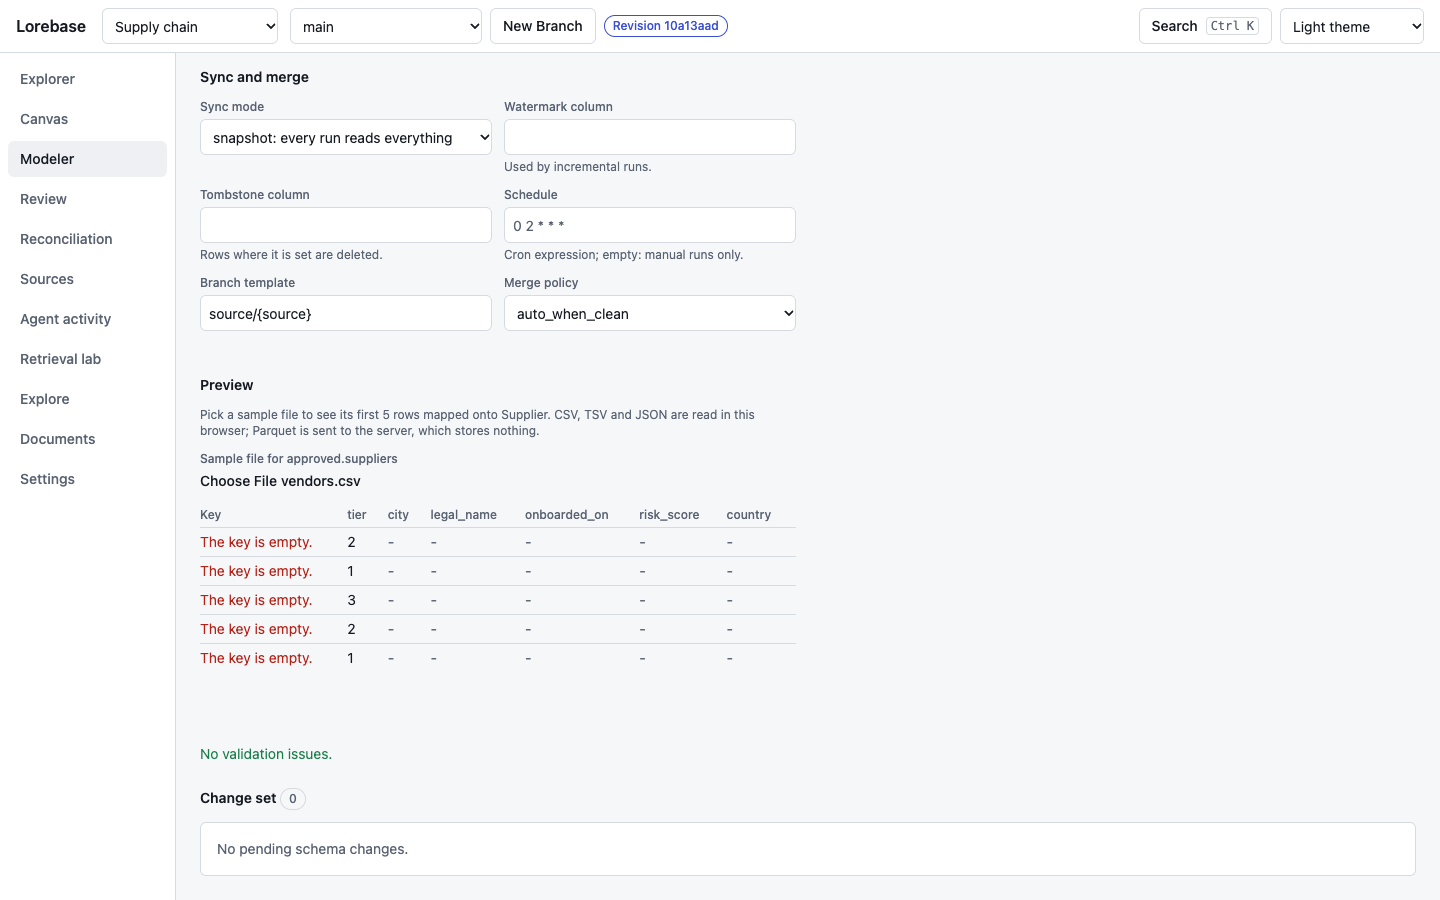
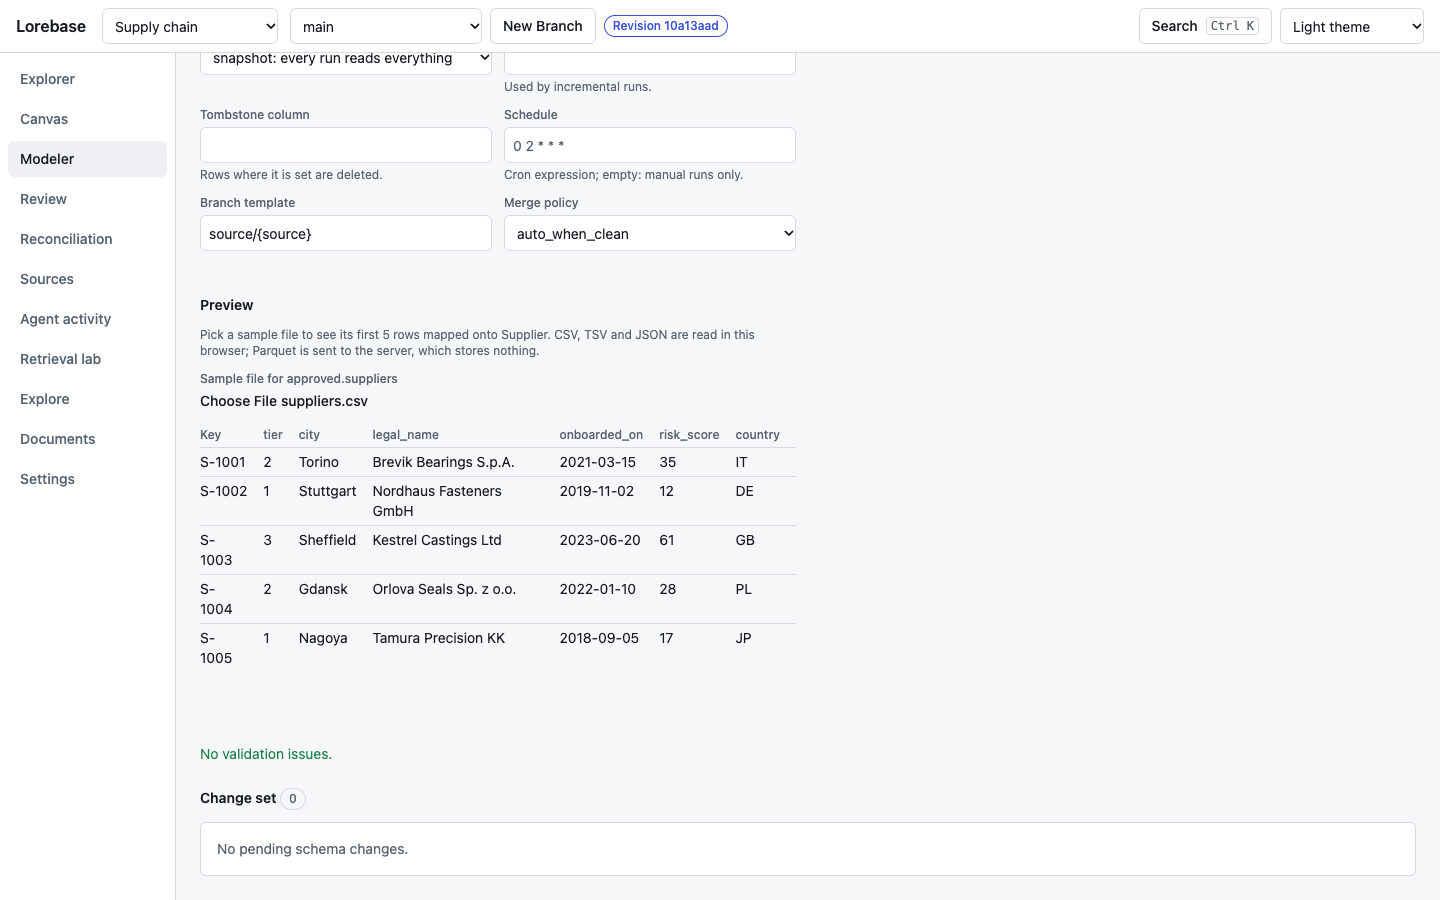
Preview the demo Source with a sample file that has its columns
The live Source preview shot read vendors.csv, written for the mock Source
erp.vendors, but the demo stack selects approved.suppliers (key supplier_code),
so every row showed an empty key. Add suppliers.csv with that Source's columns,
use it for the live shot and retake the picture.

Changed region(s): [[0.125, 0.0622, 0.5312, 0.7467], [0.5, 0.6844, 0.5312, 0.7156]]

diff --git a/apps/web/scripts/screenshots.ts b/apps/web/scripts/screenshots.ts
@@ -80,7 +80,7 @@ const CONFIG = {
   outputDir: resolve(import.meta.dirname, '../../../docs/images'),
   /** CSV files the "Start from data" shot uploads: the demo Domain of examples/supply. */
   sampleDataDir: resolve(import.meta.dirname, '../../../examples/supply/data'),
-  /** Sample file the Source preview shot reads: columns of the mock Source erp.vendors. */
+  /** Sample files the Source preview shot reads: columns of the mock Source erp.vendors (vendors.csv) and of the demo Source approved.suppliers (suppliers.csv). */
   sourceSampleDir: resolve(import.meta.dirname, 'screenshot-data'),
   buildDir: resolve(import.meta.dirname, '../node_modules/.cache/screenshots-dist'),
   /** Live builds bake in other variables, so they get their own folder. */
@@ -431,7 +431,7 @@ const DEMO_SHOTS = (domain: string, ids: DemoIds): Shot[] => [
     ready: '.cm-content',
     steps: [
       { click: '[role=tab]:has-text("Sources")' },
-      { upload: 'input[type=file]', files: ['vendors.csv'], from: 'sourceSample' },
+      { upload: 'input[type=file]', files: ['suppliers.csv'], from: 'sourceSample' },
       { waitFor: 'table[aria-label^="Sample rows"]' },
       { scrollToTop: 'table[aria-label^="Sample rows"]', offset: 260 },
       { wait: 300 },
